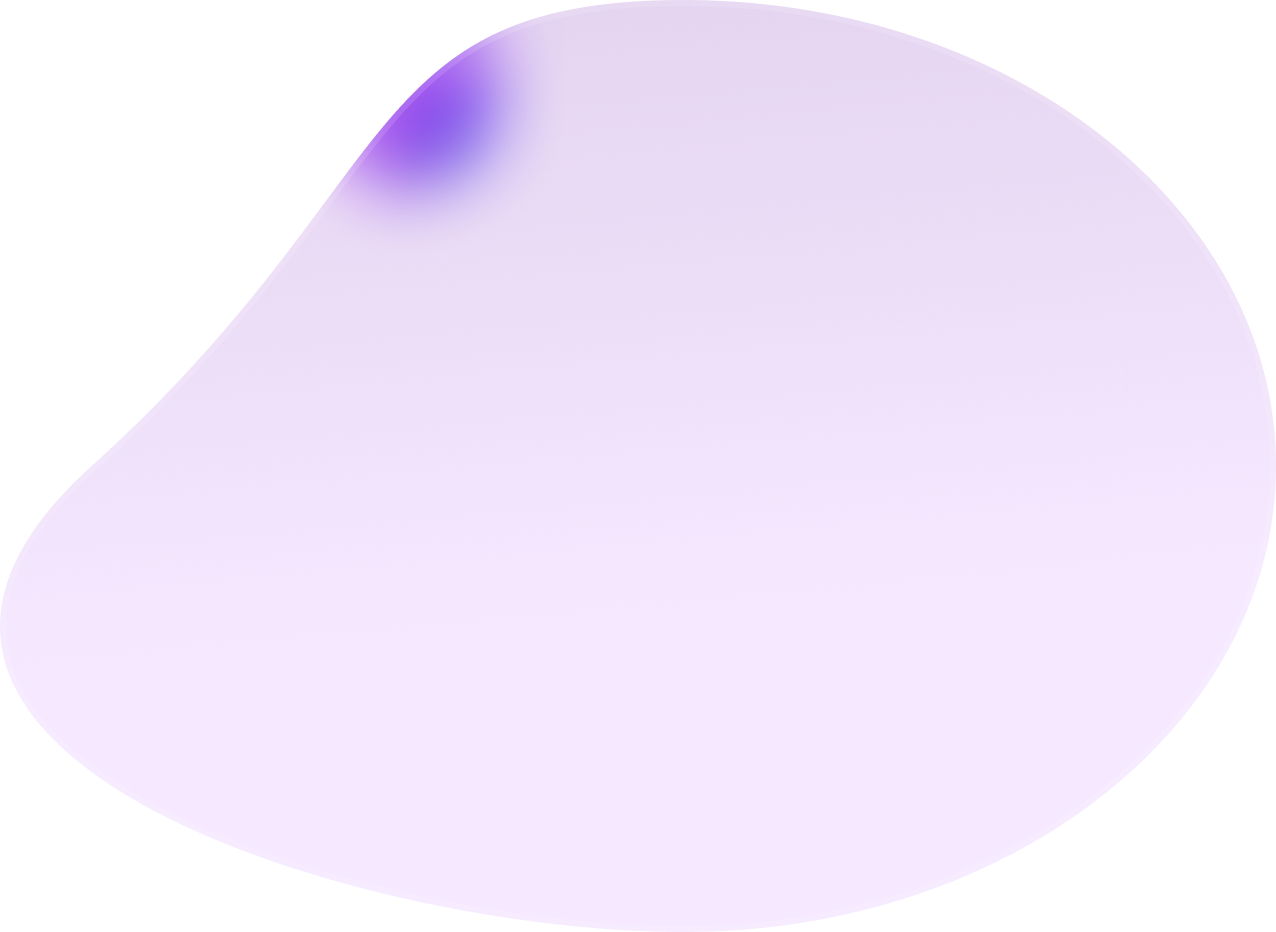
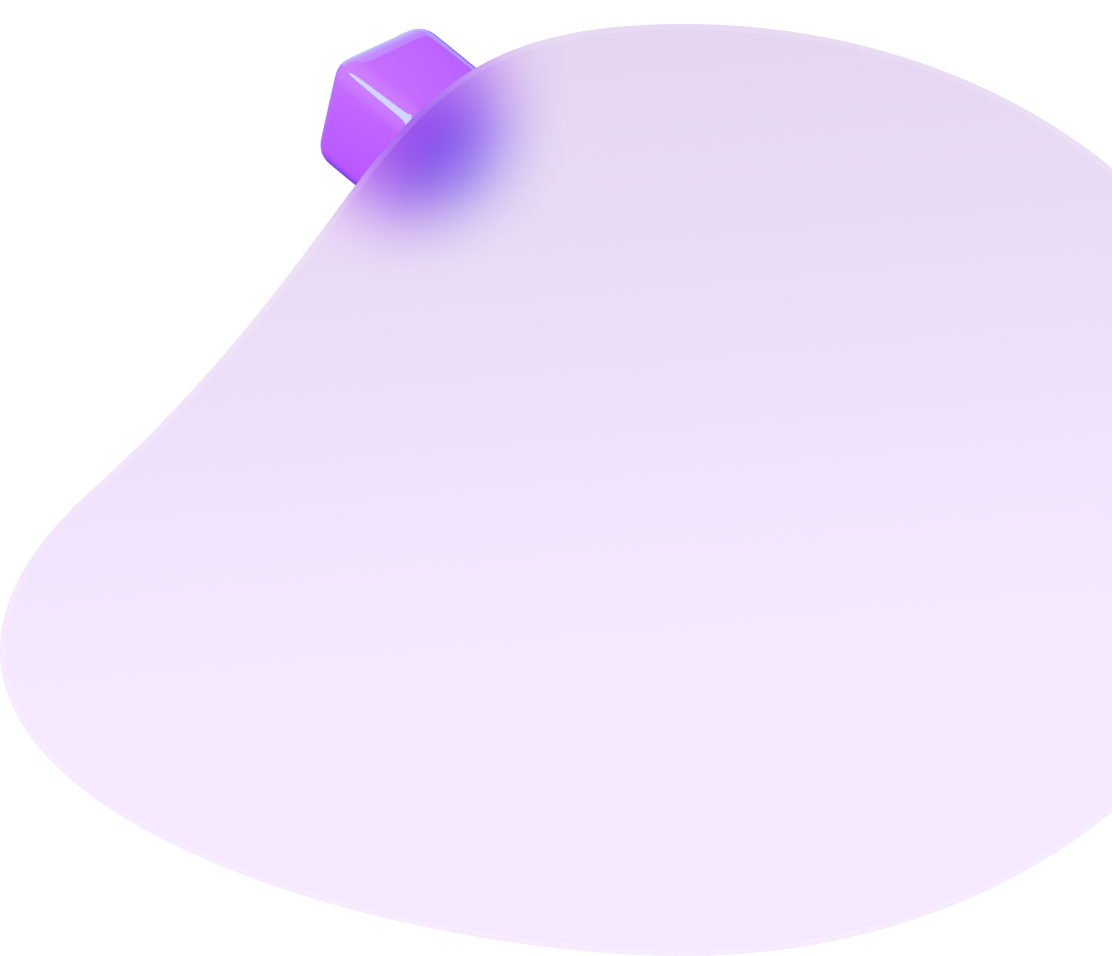
fix ellipse 768

Changed region(s): [[0.0612, 0.0, 0.6727, 0.529], [0.7032, 0.0311, 1.0, 0.4356], [0.0306, 0.529, 0.0612, 0.5601]]

diff --git a/src/page/App768.css b/src/page/App768.css
@@ -511,14 +511,14 @@
   .ellipse {
     position: absolute;
     width: 638px;
-    height: 466px;
+    height: 536px;
     top: 12px;
     left: 108px;
     background: url(../assets/images/images_768/aba9ba9d-e867-4cc9-93b8-650e3cf9a7f3.png)
       no-repeat center;
     background-size: cover;
     z-index: 150;
-    backdrop-filter: blur(20px);
+    backdrop-filter: none ;
   }
   .rectangle-10 {
     position: absolute;

diff --git a/src/page/768/functions/AppFunctions.jsx b/src/page/768/functions/AppFunctions.jsx
@@ -76,7 +76,7 @@ export default function AppFunctions() {
                 </div>  
             </div>            
             <div className='flex-row-f'>
-                <div className='purple-glossy' />
+                {/* <div className='purple-glossy' /> */}
                 <div className='ellipse' />
                 <div className='rectangle-10'>
                     <span className='gif'>gif.</span>
